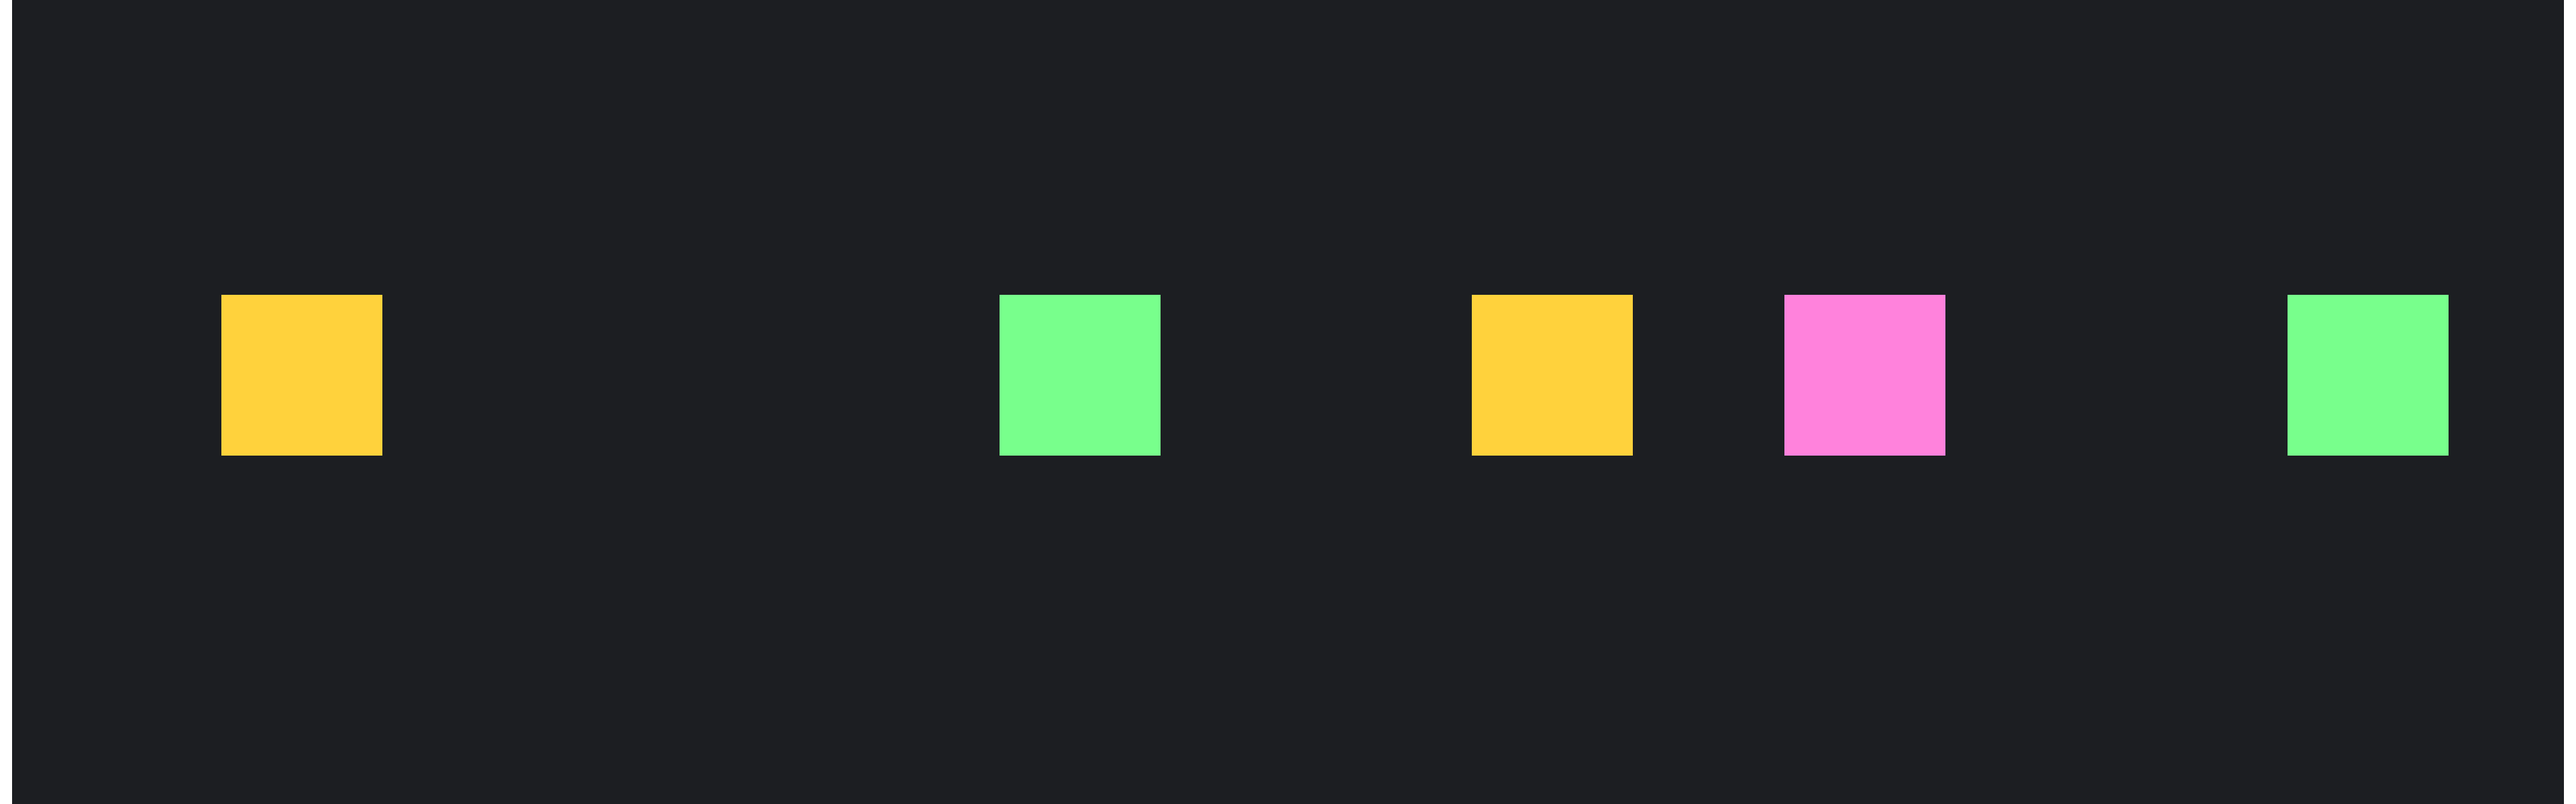
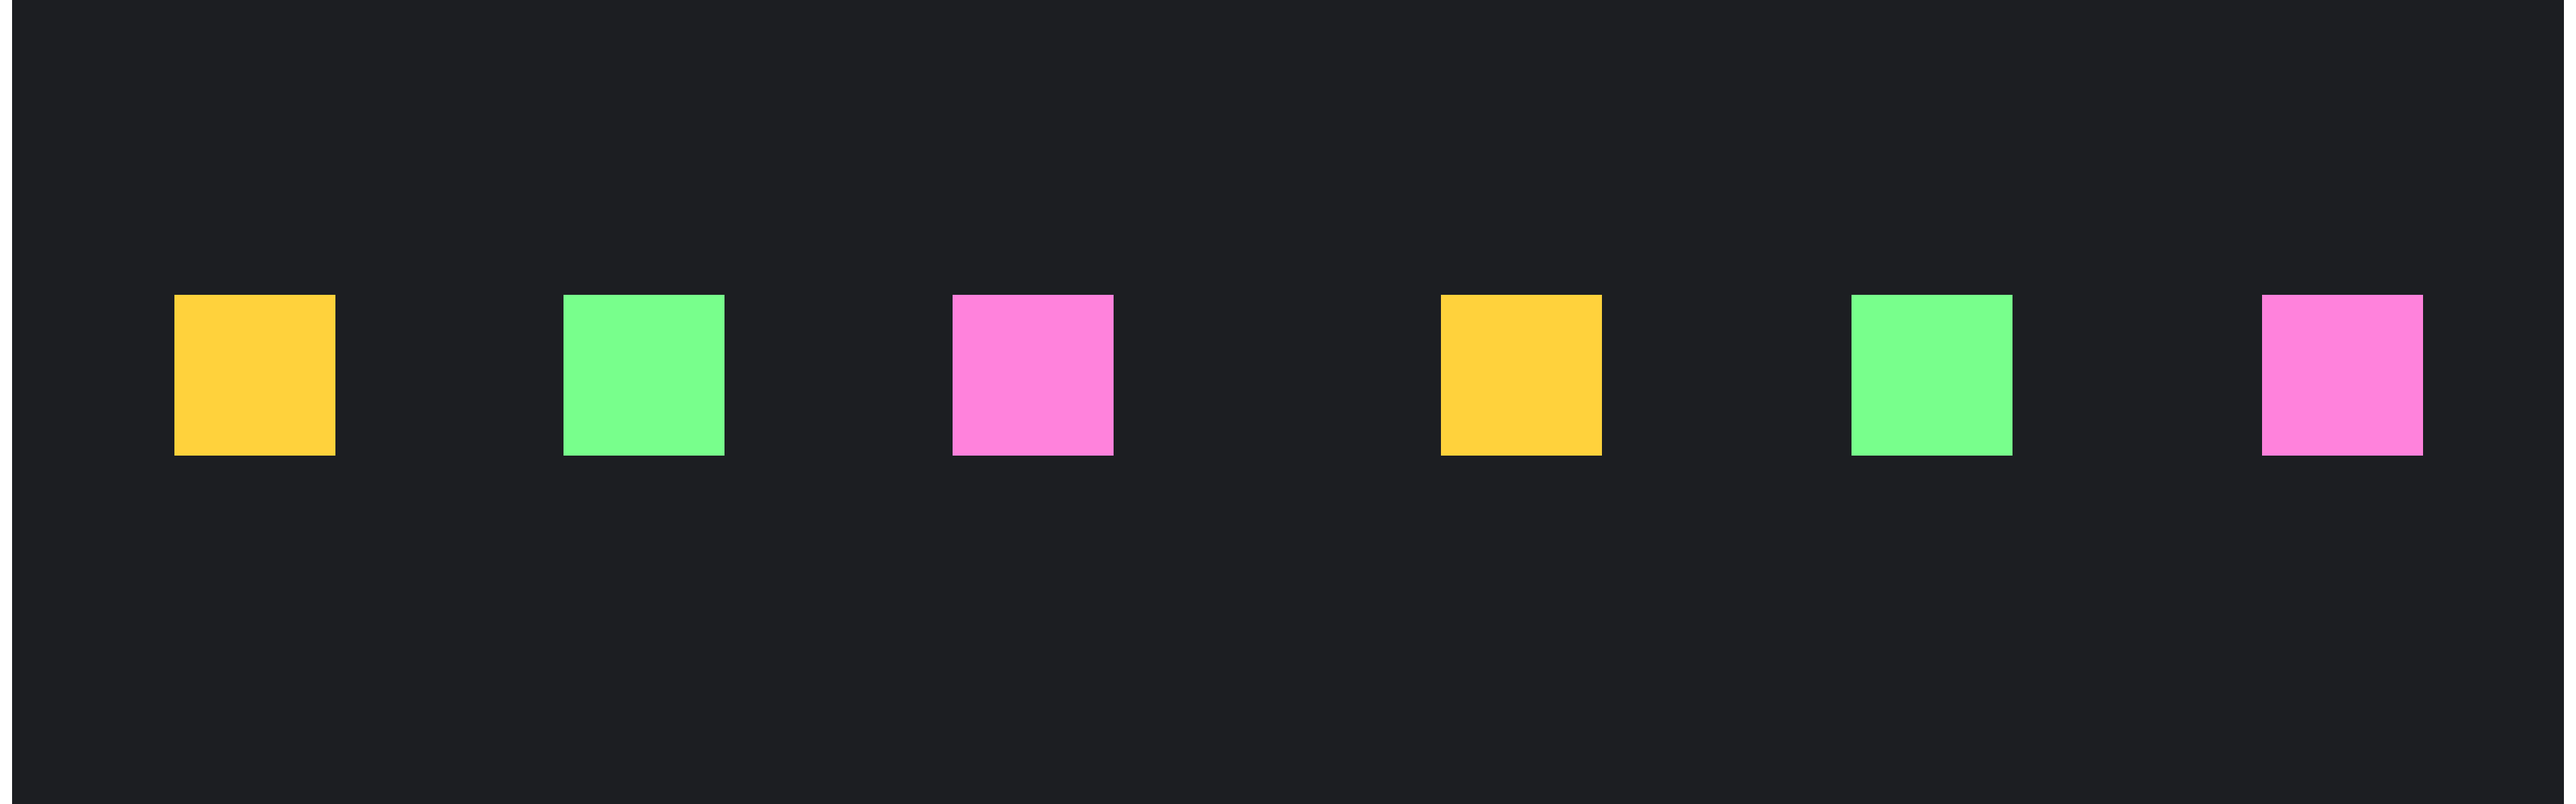
monado-viture: fix the stereo test pattern's geometry, and check it
The operator's read exposed a real bug: they saw two squares in the left eye and three
in the right. That was the pattern, not the display -- the magenta square's left-eye
copy sat at x=2660, outside the left half (0..1919), so it leaked into the right eye's
half while its right-eye copy at x=4636 fell off the screen entirely.

Squares are now placed inside their own halves (left 260/840/1420, disparities
-32/0/+32 px so depth is comfortable rather than extreme), and make-stereo-pattern.py
refuses to emit a layout where any copy crosses the half boundary -- verified by
feeding it the old broken geometry, which it rejects.

Worth recording: the same read is *positive* evidence that the side-by-side split
works -- two eyes seeing different halves of one 3840-wide frame is exactly the
behaviour under test.

diff --git a/experiments/monado-viture/tools/make-stereo-pattern.py b/experiments/monado-viture/tools/make-stereo-pattern.py
@@ -31,11 +31,31 @@ BG = (28, 30, 34)
 
 SQUARES = [
     # colour,             x in left half, y,  side, disparity px
-    ((255, 210, 60), 330, 440, 240, -56),   # yellow, nearer
-    ((120, 255, 140), 1490, 440, 240, 0),   # green, at panel plane
-    ((255, 130, 220), 2660, 440, 240, 56),  # magenta, farther
+    ((255, 210, 60), 260, 440, 240, -32),    # yellow, nearer
+    ((120, 255, 140), 840, 440, 240, 0),     # green, at panel plane
+    ((255, 130, 220), 1420, 440, 240, 32),   # magenta, farther
 ]
 EDGE_BAR_W = 18
+
+
+def check_layout() -> None:
+    """Every copy must land inside its own half, or an eye sees the wrong picture.
+
+    This check exists because the first version of this pattern put the magenta
+    square's left-eye copy at x=2660 -- outside the left half -- so the left eye saw
+    two squares instead of three while a stray copy leaked into the right eye's half.
+    """
+    problems = []
+    for colour, x_left, y, side, d in SQUARES:
+        if x_left < 0 or x_left + side > MID:
+            problems.append(f"left copy of {colour} spans {x_left}..{x_left + side}, outside 0..{MID}")
+        x_right = x_left + MID + d
+        if x_right < MID or x_right + side > W:
+            problems.append(f"right copy of {colour} spans {x_right}..{x_right + side}, outside {MID}..{W}")
+    if problems:
+        for p in problems:
+            print(f"  LAYOUT ERROR: {p}")
+        raise SystemExit(1)
 
 
 def rect(img: list[bytearray], x0: int, y0: int, w: int, h: int, colour: tuple[int, int, int]) -> None:
@@ -69,11 +89,14 @@ def write_png(path: pathlib.Path, img: list[bytearray]) -> None:
 
 
 def main() -> int:
+    check_layout()
     out = pathlib.Path(sys.argv[1] if len(sys.argv) > 1 else "docs/stereo-test-pattern.png")
     out.parent.mkdir(parents=True, exist_ok=True)
     write_png(out, build())
     print(f"wrote {out} ({out.stat().st_size} bytes)")
-    print("  yellow d=-56 (nearer), green d=0 (panel plane), magenta d=+56 (farther), white edge bars")
+    for colour, x, y, side, d in SQUARES:
+        print(f"  left x={x:<5} right x={x + MID + d:<5} disparity {d:+d} px")
+    print("  white bars at both outer edges; every copy checked to sit inside its own half")
     return 0
 
 
